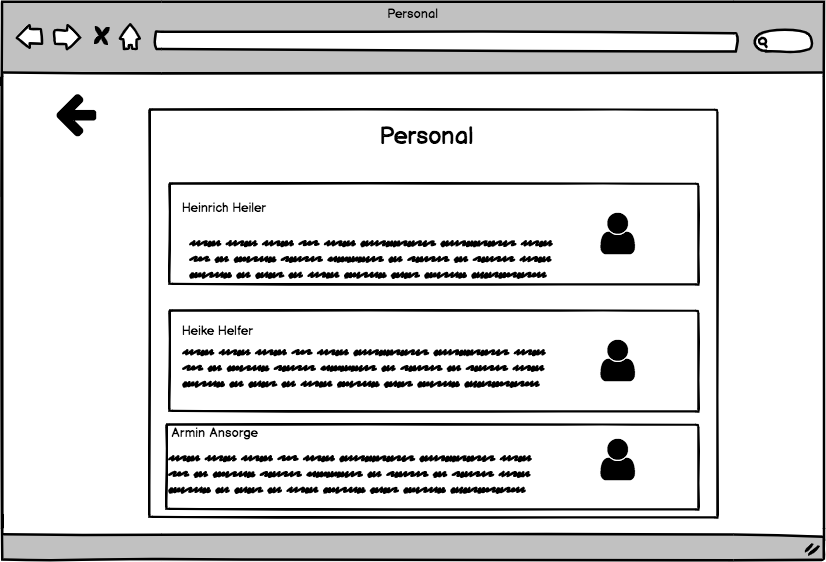
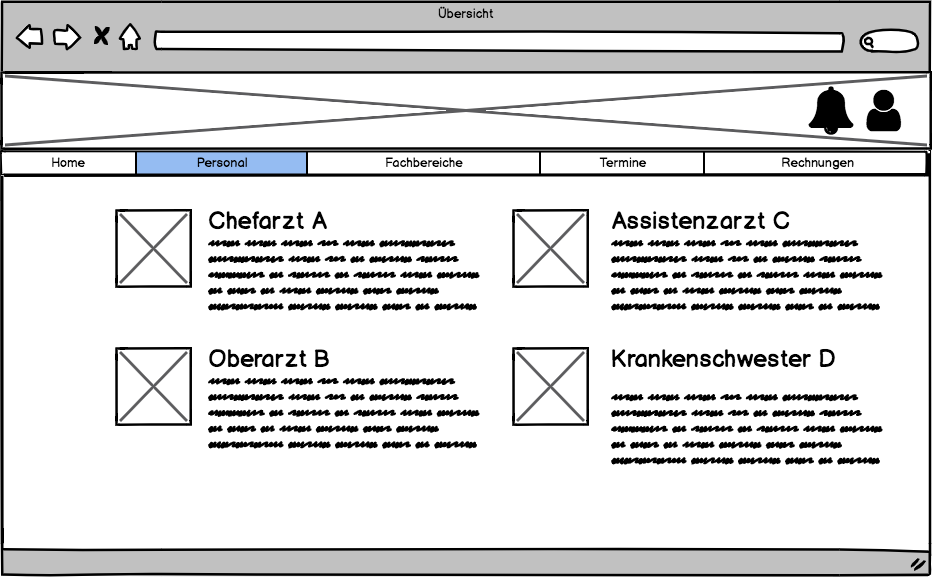
Mockups überarbeitet

Changed region(s): [[0.0, 0.0, 1.0, 0.9982], [0.0605, 0.9982, 0.0908, 1.0]]

diff --git a/docs/jendrik_mueller/Spezifikation_Krankenhaus.md b/docs/jendrik_mueller/Spezifikation_Krankenhaus.md
@@ -75,17 +75,30 @@ Prüfbarkeit |-|-|X|-
 
 ## 2.4 Graphische Benutzerschnittstelle
 
+### Allgemein
+
 ![Login](img/Login.png)
 
 ![Übersicht](img/Übersicht.png)
 
-![Essen](img/Essen.png)
-
 ![Personal](img/Personal.png)
+
+![Fachbereiche](img/Fachbereiche.png)
+
+###Patienten
 
 ![Termine](img/Termine.png)
 
-![Veranstalltungen](/Users/jendrikmuller/Documents/Master/SGSE/Spezifikation/docs/jendrik_mueller/img/Veranstalltungen.png)
+![Rechnungen](img/Rechnungen.png)
+
+### Personal
+
+![Patienten](img/Patienten.png)
+
+![PatientenDetails](img/PatientenDetails.png)
+
+![TerminePersonal](img/TerminePersonal.png)
+
 
 ## 2.5 Anforderungen im Detail
 
